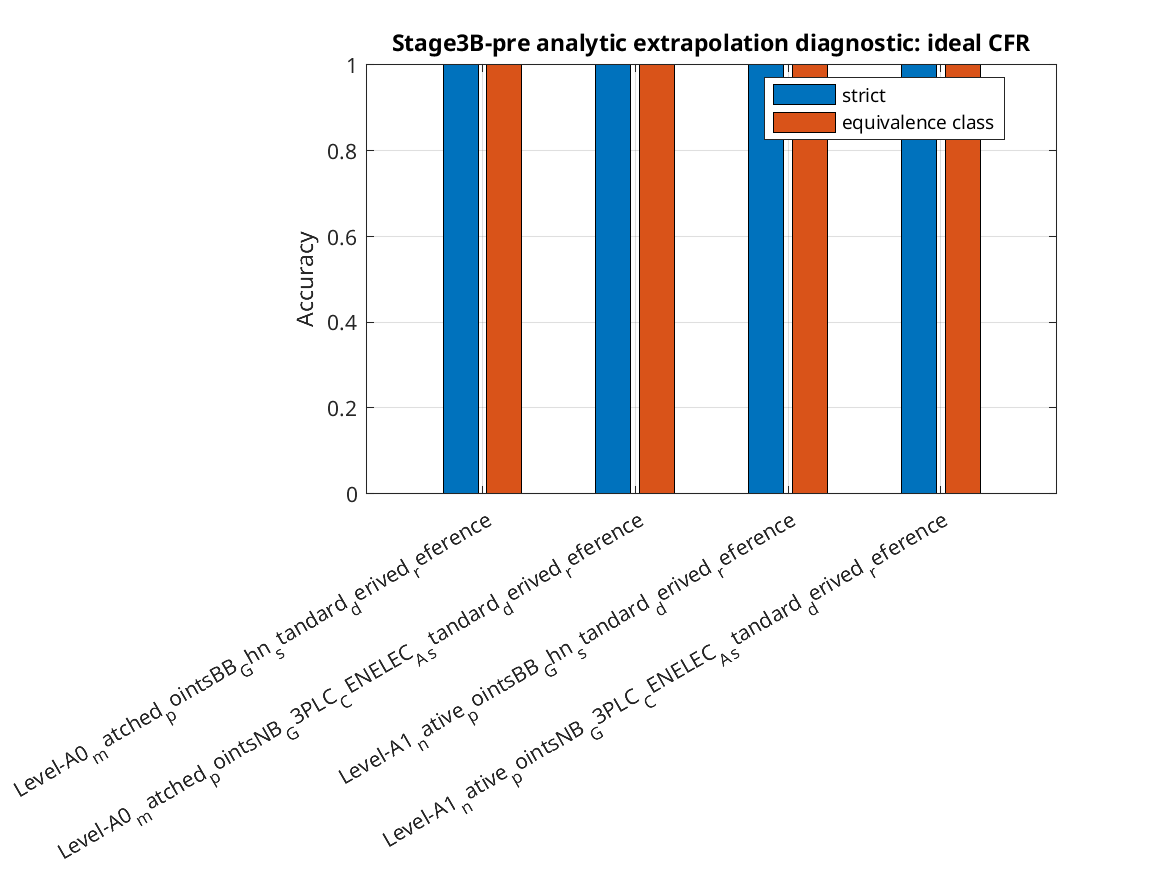
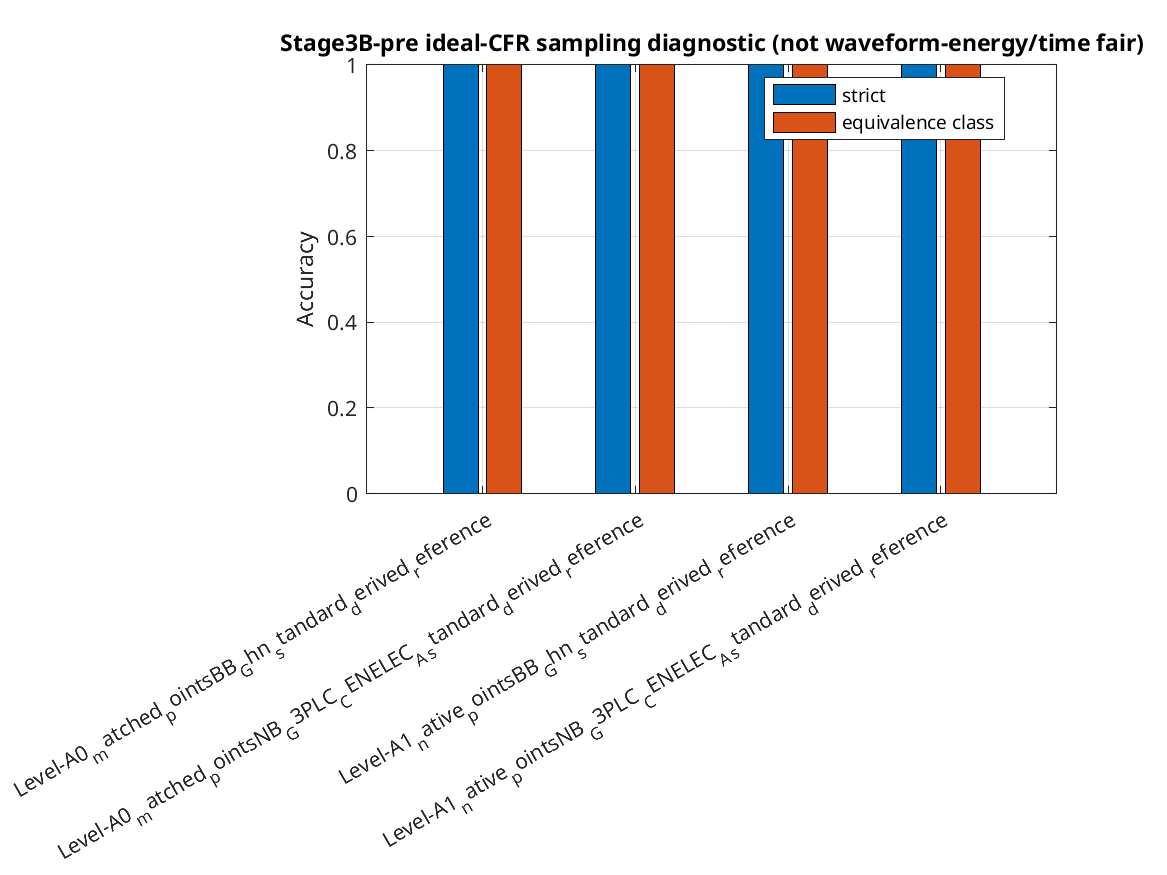
fix: clarify Stage 3B-pre diagnostic evidence

Changed region(s): [[0.2468, 0.0309, 0.9871, 0.0617]]

diff --git a/experiments/exp_stage3b_pre_level_a.m b/experiments/exp_stage3b_pre_level_a.m
@@ -6,13 +6,13 @@ function result = exp_stage3b_pre_level_a(root_dir)
     rows=struct([]);r=0;
     for li=1:numel(cfg.levels)
         for bi={'BB','NB'}
-            band=stage3b_pre_band_selector(bi{1},cfg.levels{li});fair=stage3b_pre_fair_sampling(band,cfg.total_injected_energy,cfg.target_observation_time_s);
+            band=stage3b_pre_band_selector(bi{1},cfg.levels{li});placeholder=stage3b_pre_fair_sampling(band);
             for ci=1:numel(cfg.theta_cases)
                 theta=theta_case(cfg.theta_cases{ci});
                 for si=1:numel(cfg.snr_db)
                     out=stage3b_pre_level_a_match(band.frequency_hz,candidates,base,theta,cfg.snr_db(si), ...
                         cfg.random_seed+10000*li+1000*(bi{1}(1)=='N')+100*ci+si,cfg);
-                    r=r+1; candidate_row=summarize(band,fair,cfg,theta,cfg.snr_db(si),out);
+                    r=r+1; candidate_row=summarize(band,placeholder,cfg,theta,cfg.snr_db(si),out);
                     if r==1
                         rows=candidate_row;
                     else
@@ -36,22 +36,22 @@ function theta=theta_case(name)
     if strcmp(name,'length_plus_2pct'),theta.main_length_scale=1.02;theta.branch_length_scale=1.02;end
     if strcmp(name,'load_minus_10pct'),theta.branch_load_scale=.9;end
 end
-function row=summarize(band,fair,cfg,theta,snr,out)
+function row=summarize(band,placeholder,cfg,theta,snr,out)
     m=out.metrics;labels=out.classes.class_labels;members=out.classes.class_members;
     pair='';for k=1:numel(members),ids=labels{members{k}(1)};if contains(ids,'T3')&&contains(ids,'T5'),pair=ids;end,end
     nearest_summary=strjoin(unique(out.nearest_competitor,'stable'),';');
-    row=struct('analysis_kind',cfg.analysis_kind,'level',band.level,'band',band.name, ...
+    row=struct('analysis_kind',cfg.analysis_kind,'measurement_model','ideal_CFR_plus_receiver_sample_noise', ...
+        'reference_library','nominal_library','level',band.level,'band',band.name, ...
         'rlgc_status',band.rlgc_status,'point_count',band.active_point_count, ...
         'frequency_low_hz',band.frequency_hz(1),'frequency_high_hz',band.frequency_hz(end), ...
         'snr_db',snr,'main_length_scale',theta.main_length_scale,'branch_load_scale',theta.branch_load_scale, ...
-        'total_injected_energy',fair.total_injected_energy,'repetitions',fair.repetitions, ...
-        'observation_time_s',fair.achieved_observation_time_s,'strict_accuracy',m.strict_topology_accuracy, ...
+        'future_waveform_fairness_placeholder',placeholder.status,'strict_accuracy',m.strict_topology_accuracy, ...
         'equivalence_class_accuracy',m.equivalence_class_accuracy,'ambiguity_rate',m.ambiguity_rate, ...
         'false_unique_rate',m.false_unique_rate,'class_intra_distance',m.mean_class_intra_distance, ...
         'nearest_class_inter_distance',m.mean_nearest_class_inter_distance, ...
         'intra_inter_ratio',m.class_intra_inter_ratio,'nearest_competing_topology',nearest_summary, ...
         't3_t5_equivalence_class',pair, ...
-        'cfr_sampling_nmse',out.cfr_sampling_nmse);
+        'cfr_sampling_nmse_ideal_input',out.cfr_sampling_nmse_ideal_input);
 end
 function A=applicability_table()
     A=struct('item',{'RLGC frequency applicability';'load model';'source_receiver_impedance';'frequency_grid';'noise definition';'observation port'}, ...
@@ -64,6 +64,6 @@ end
 function ensure_dirs(cfg),if ~exist(cfg.results_data,'dir'),mkdir(cfg.results_data);end;if ~exist(cfg.results_figures,'dir'),mkdir(cfg.results_figures);end;if ~exist(cfg.results_logs,'dir'),mkdir(cfg.results_logs);end,end
 function make_figure(T,dir_out)
     z=T(isinf(T.snr_db)&T.main_length_scale==1&T.branch_load_scale==1,:);figure('Visible','off');
-    bar(categorical(strcat(string(z.level),' ',string(z.band))),[z.strict_accuracy,z.equivalence_class_accuracy]);grid on;ylim([0 1]);ylabel('Accuracy');legend('strict','equivalence class','Location','best');title('Stage3B-pre analytic extrapolation diagnostic: ideal CFR');
+    bar(categorical(strcat(string(z.level),' ',string(z.band))),[z.strict_accuracy,z.equivalence_class_accuracy]);grid on;ylim([0 1]);ylabel('Accuracy');legend('strict','equivalence class','Location','best');title('Stage3B-pre ideal-CFR sampling diagnostic (not waveform-energy/time fair)');
     print(gcf,fullfile(dir_out,'stage3b_pre_accuracy.png'),'-dpng','-r150');close(gcf);
 end

diff --git a/src/stage3b_pre_fair_sampling.m b/src/stage3b_pre_fair_sampling.m
@@ -1,14 +1,10 @@
-function fairness = stage3b_pre_fair_sampling(band, total_energy, target_time_s)
-%STAGE3B_PRE_FAIR_SAMPLING Declare, rather than optimize, Level-A fairness.
-    if nargin<2||isempty(total_energy),total_energy=1;end
-    if nargin<3||isempty(target_time_s),target_time_s=3.2e-3;end
-    payload_s=band.nfft/band.fs_hz;
-    repetitions=max(1,round(target_time_s/payload_s));
-    fairness=struct('total_injected_energy',total_energy, ...
-        'energy_per_frequency_sample_per_repetition',total_energy/(band.active_point_count*repetitions), ...
-        'payload_duration_s',payload_s,'target_observation_time_s',target_time_s, ...
-        'repetitions',repetitions,'achieved_observation_time_s',repetitions*payload_s, ...
-        'noise_reference','post-line CFR sample; equal receiver-domain SNR definition', ...
-        'note',['Ideal known CFR samples are used. Energy/time fields define the ' ...
-        'fairness contract but do not instantiate a PHY frame, pilot or PSD.']);
+function placeholder = stage3b_pre_fair_sampling(band)
+%STAGE3B_PRE_FAIR_SAMPLING Describe deferred waveform-level fairness only.
+%   This function deliberately does not allocate energy, create repetitions,
+%   alter noise variance, average observations, or affect matching.
+    placeholder=struct('status','future_waveform_fairness_placeholder', ...
+        'band_name',band.name,'payload_duration_s',band.nfft/band.fs_hz, ...
+        'not_used_in_current_observation_statistics',true, ...
+        'note',['Current Stage-3B-pre uses one ideal known CFR vector plus optional ' ...
+        'receiver-domain sample noise. Energy/time fairness is not implemented.']);
 end

diff --git a/tests/test_stage3b_pre.m b/tests/test_stage3b_pre.m
@@ -7,7 +7,8 @@ function test_stage3b_pre()
     assert(bb0.active_point_count==36&&nb0.active_point_count==36&&bb1.active_point_count>nb1.active_point_count,'Level-A0/A1 point rules failed.');
     assert(bb1.nfft==4096&&bb1.fs_hz==100e6&&nb1.nfft==256&&nb1.fs_hz==.4e6&&nb1.ncp==30&&nb1.overlap_samples==8,'Standard-derived fields failed.');
     assert(isequal(before.ofdm,after.ofdm)&&strcmp(cfg.analysis_kind,'analytic_extrapolation_diagnostic'),'Existing configuration was changed.');
-    fair=stage3b_pre_fair_sampling(bb0,1,3.2e-3);assert(fair.total_injected_energy==1&&fair.repetitions>0,'Fairness metadata failed.');
+    placeholder=stage3b_pre_fair_sampling(bb0);assert(placeholder.not_used_in_current_observation_statistics&& ...
+        strcmp(placeholder.status,'future_waveform_fairness_placeholder'),'Deferred fairness metadata failed.');
     candidates=topology_candidates(before);out=stage3b_pre_level_a_match(nb0.frequency_hz,candidates([2,3,4,5]),before,struct(),Inf,1,cfg);
     assert(any(out.classes.class_sizes>1)&&all(isfinite(out.classes.pairwise_complex_distance(:))),'Equivalence diagnostic failed.');
     fprintf('  PASS Stage3B-pre isolated standard-derived diagnostic boundaries\n');

diff --git a/src/stage3b_pre_level_a_match.m b/src/stage3b_pre_level_a_match.m
@@ -1,5 +1,7 @@
 function out = stage3b_pre_level_a_match(f_hz, candidates, base_cfg, theta, snr_db, seed, cfg)
-%STAGE3B_PRE_LEVEL_A_MATCH Isolated ideal-CFR topology matching diagnostic.
+%STAGE3B_PRE_LEVEL_A_MATCH Ideal-CFR plus receiver-sample-noise diagnostic.
+%   One CFR vector is observed per trial. No waveform energy, symbol time,
+%   repetitions, averaging, coupler loss or receiver noise figure is modeled.
     refs=topology_reference_cfr(f_hz,candidates,base_cfg);
     views=cell(1,numel(refs));
     for v=1:numel(refs), views{v}={refs(v).reference_H}; end
@@ -21,7 +23,7 @@ function out = stage3b_pre_level_a_match(f_hz, candidates, base_cfg, theta, snr_
     metrics=topology_equivalence_evaluation(truth,matches,candidates,classes);
     out=struct('metrics',metrics,'classes',classes,'truth',truth,'matches',{matches}, ...
         'class_intra_distance',intra,'nearest_class_inter_distance',inter, ...
-        'nearest_competitor',{nearest},'cfr_sampling_nmse',0, ...
+        'nearest_competitor',{nearest},'cfr_sampling_nmse_ideal_input',0, ...
         'noise_is_receiver_domain',isfinite(snr_db));
 end
 

diff --git a/src/stage3b_pre_config.m b/src/stage3b_pre_config.m
@@ -8,10 +8,11 @@ function cfg = stage3b_pre_config(root_dir)
         'candidate_indices',[2,3,4,5],'snr_db',[Inf,20], ...
         'trials_per_truth',20,'random_seed',20260902, ...
         'theta_cases',{{'nominal','length_plus_2pct','load_minus_10pct'}}, ...
-        'total_injected_energy',1,'target_observation_time_s',3.2e-3, ...
         'levels',{{'Level-A0_matched_points','Level-A1_native_points'}}, ...
         'noise_definition',['Receiver-domain additive complex CFR-sample noise; ' ...
         'SNR=mean(abs(H_true).^2)/mean(abs(N).^2), evaluated after the line model.'], ...
+        'future_waveform_fairness_placeholder',['Energy, time and repetition settings are ' ...
+        'reserved for a future waveform-level experiment and do not enter current observation statistics.'], ...
         'results_data',fullfile(root_dir,'results','data'), ...
         'results_figures',fullfile(root_dir,'results','figures'), ...
         'results_logs',fullfile(root_dir,'results','logs'));

diff --git a/run_stage3b_pre.m b/run_stage3b_pre.m
@@ -1,5 +1,9 @@
 function result = run_stage3b_pre()
-%RUN_STAGE3B_PRE Run only isolated Stage-3B-pre test and diagnostic.
+%RUN_STAGE3B_PRE Run isolated Stage-3B-pre tests and ideal-CFR diagnostic.
     root=fileparts(mfilename('fullpath'));addpath(fullfile(root,'src'));addpath(fullfile(root,'config'));addpath(fullfile(root,'experiments'));addpath(fullfile(root,'tests'));
-    test_stage3b_pre();result=exp_stage3b_pre_level_a(root);
+    started=datetime('now','Format','yyyy-MM-dd HH:mm:ss Z');
+    fprintf('Stage3B-pre start: %s\nMATLAB version: %s\nWorking directory: %s\n',char(started),version,root);
+    fprintf('Entry: run_tests; run_stage3b_pre (Stage3B-pre uses ideal CFR plus receiver-domain sample noise).\n');
+    run_tests;result=exp_stage3b_pre_level_a(root);
+    fprintf('Stage3B-pre completed successfully at %s.\n',char(datetime('now','Format','yyyy-MM-dd HH:mm:ss Z')));
 end

diff --git a/tests/run_tests.m b/tests/run_tests.m
@@ -198,6 +198,7 @@ function run_tests()
     test_stage3a_1();
     test_stage3a_2();
     test_stage3_band_configs();
+    test_stage3b_pre();
 end
 
 function err = determinant_error(T)

diff --git a/report/stage3b_pre_level_a.md b/report/stage3b_pre_level_a.md
@@ -1,89 +1,91 @@
-# Stage 3B-pre：标准派生 Level-A 宽窄带可辨识性诊断
+# Stage 3B-pre：标准派生理想 CFR 带宽可辨识性诊断
 
 ## 1. 阶段与范围
 
-当前阶段是 **Stage 3A.2 收尾 + Stage 3B-pre**。本轮执行的是“标准派生、模型限定的 Level-A 宽窄带公平可辨识性实验准备与执行”，不是正式 Stage 3B 的波形、导频、子载波或功率优化，也不是真实 PLC 收发机或现场拓扑验证。
+当前阶段是 **Stage 3A.2 收尾 + Stage 3B-pre（带宽可辨识性前置诊断）**。正式 Stage 3B 的波形、导频、功率或子载波优化尚未启动。
 
-已保留的历史阶段为 Stage 1.5、2、2.1、2.2、2.3、3A、3A.1、3A.2 和 NB/BB 双频段配置边界测试。配置边界测试通过只说明接口与隔离规则正确，不等于完成 NB/BB 数值识别。
+本实验是基于当前传输线正向模型、标准参数可追溯的**理想 CFR 解析外推诊断**：候选库使用 nominal 参数，测试样本施加参数扰动；有限 SNR 条件在接收端 CFR 样点加入等效复高斯噪声。它不是实际 PLC 收发机比较、实测验证、完整 NB PHY，也不证明拓扑已被唯一识别。
 
-本次新增结果统一标记为 `analytic_extrapolation_diagnostic`。原因是当前 RLGC/线路模型的项目证据窗口是 2--30 MHz；CENELEC-A 的低频计算可以由解析公式数值求值，但缺少在该频段的物理校准证据。因此本报告中的 NB 数值**不构成物理 NB/BB 比较**。
+已保留的历史阶段为 Stage 1.5、2、2.1、2.2、2.3、3A、3A.1、3A.2 和 NB/BB 双频段配置边界测试。后者只验证配置接口与隔离边界，不能替代 NB/BB 数值识别实验。
 
-## 2. 配置与证据等级
+所有本轮 NB 行均标记为 `analytic_extrapolation_diagnostic`：现有 RLGC/线路证据窗口为 2--30 MHz，CENELEC-A 的低频响应只是解析函数的数值外推，缺少低频实测或独立参数标定。因此 NB 结果**不构成物理 NB/BB 比较**。
 
-| 项目 | BB 标准派生参考 | NB 标准派生参考 | 证据等级/边界 |
+## 2. 标准派生配置与证据等级
+
+| 项目 | BB 标准派生参考 | NB 标准派生参考 | 证据等级与边界 |
 |---|---|---|---|
-| 名称 | `BB_Ghn_standard_derived_reference` | `NB_G3PLC_CENELEC_A_standard_derived_reference` | 两者均为模型限定参考，非硬件复现 |
+| 名称 | `BB_Ghn_standard_derived_reference` | `NB_G3PLC_CENELEC_A_standard_derived_reference` | 模型限定参考，不是硬件复现 |
 | 来源 | ITU-T G.9960/G.9964 | ITU-T G.9903 | 标准派生字段；硬件前端未冻结 |
 | NFFT / Fs | 4096 / 100 MHz | 256 / 0.4 MHz | 标准派生 |
 | 子载波间隔 | 24.4140625 kHz | 1.5625 kHz | 标准派生 |
-| 观测频带 | 2--30 MHz 研究窗口 | 35.9375--90.625 kHz、36 个 CENELEC-A 派生 tone | BB 不是完整 G.hn PHY；NB 不是实际项目硬件 |
-| CP/重叠 | 本轮不实例化 payload/前导/PROBE | 记录 `NCP=30`、overlap=8，但本轮不实例化帧 | 标准字段不等于本轮完成完整 PHY |
+| 观测范围 | 2--30 MHz 研究窗口 | 35.9375--90.625 kHz、36 个 CENELEC-A 派生 tone | BB 不是完整 G.hn PHY；NB 不是已确认项目硬件 |
+| CP/重叠 | 本轮不生成 payload、前导或 PROBE | 仅记录 `NCP=30`、overlap=8，不生成帧 | 标准字段不等于完整 PHY 实现 |
 | 端口 | 相同 50 ohm 数学 SISO 正向端口 | 同左 | 项目假设，未标定 |
-| RLGC | 现有项目 2--30 MHz 模型窗口 | 同一解析函数在低频求值 | NB 为频率外推诊断 |
+| RLGC | 既有项目 2--30 MHz 模型窗口 | 同一解析函数向低频求值 | NB 为频率外推诊断 |
 
-标准参数与硬件参数必须分开：本轮没有填入实际 active carrier/notch、GI、PSD、发射功率、耦合器、灵敏度、真实端接、CFO 或同步时间原点。
+本轮未填入实际 active carrier/notch、GI、PSD、发射功率、耦合器、灵敏度、真实端接、CFO 或同步时间原点；不得把标准字段写成某一商用 modem 的实际参数。
 
 ## 3. 模型适用性门槛
 
 | 项目 | BB | NB | 证据等级 | 能否进入正式物理 Level-A |
 |---|---|---|---|---|
-| RLGC 频率适用范围 | 2--30 MHz 既有项目模型窗口 | 低于现有证据窗口，仅解析外推 | 代码/历史模型边界 | 否：NB 未校准 |
-| 负载模型 | 标量/复数负载接口 | 同一数学接口，无现场低频阻抗分布 | 代码接口 | 否 |
+| RLGC 频率适用范围 | 2--30 MHz 既有模型窗口 | 低于证据窗口，仅解析外推 | 历史模型边界 | 否：NB 未校准 |
+| 负载模型 | 标量/复数负载数学接口 | 同一接口，无现场低频阻抗分布 | 代码接口 | 否 |
 | 源/接收阻抗 | 50 ohm 数学假设 | 同一假设，无硬件校准 | 项目假设 | 否 |
 | 频率网格 | G.hn 派生索引 | G3 CENELEC-A 派生 36 tone | 标准派生 | 仅网格可用 |
-| 噪声定义 | 接收端 CFR 样本域受控复高斯扰动 | 同一定义 | 本轮仿真定义 | 非现场噪声 |
+| 噪声定义 | 接收端 CFR 样点域等效复高斯扰动 | 同一定义 | 本轮仿真定义 | 非现场噪声 |
 | 观测端口 | SISO forward 完整网络电压 CFR | 同左 | 模型观测定义 | 真实端口待确认 |
 
-结论：本轮不能称为“模型内物理 NB/BB Level-A 比较”；允许且已经执行的是带有明确标签的**解析外推诊断**。
+结论：只能执行带有明确标签的解析外推诊断，不能称作物理、硬件或现场的 NB/BB Level-A 比较。
 
-## 4. Level-A0/A1 公平性定义
+## 4. Level-A0/A1 的实际采样定义
 
-两个层级均固定候选集 T2/T3/T4/T5、真实测试拓扑、三组扰动（名义、全线/支路长度 `+2%`、支路负载 `-10%`）、SISO 正向端口、50 ohm 源/接收端假设、随机种子构造、复数 CFR 匹配器及评价指标。
+两个层级均固定候选集 T2/T3/T4/T5、测试拓扑、三组参数条件（名义、全线/支路长度 `+2%`、支路负载 `-10%`）、SISO 正向端口、50 ohm 数学端接、随机种子构造、复数 CFR 匹配器和指标。
 
-`Level-A0_matched_points`：BB 与 NB 都取 36 个有效 CFR 点。BB 从 2--30 MHz 的标准派生频率网格均匀抽取 36 点；NB 使用其 36 个 CENELEC-A 派生 tone。因此它隔离了“点数”而非“频带位置”。
+- `Level-A0_matched_points`：BB 与 NB 各取 36 个 CFR 点；BB 在 2--30 MHz 标准派生网格均匀取样，NB 使用 36 个 CENELEC-A tone。这是**匹配 CFR 频点数 + 共同接收端 CFR 样点 SNR**的理想诊断，不隔离频带位置。
+- `Level-A1_native_points`：BB 使用 1147 个研究窗口内网格点，NB 仍为 36 个。故 A1 相对 A0 的主要点数/采样密度变化只发生在 BB 侧；它显示原生频率资源差异，不是完全公平的单因素因果对照。
 
-`Level-A1_native_points`：BB 使用 1147 个 2--30 MHz 标准派生网格点，NB 使用其原生 36 点。这一层展示原生频率资源差异，不是完全单因素因果对照。
-
-总注入能量定义为每次观测 `E_total=1`；每个“点×重复”的名义能量为 `1/(N_point N_rep)`。为接近 3.2 ms 的统一观测时间，BB 使用 78 个 `4096/100 MHz=40.96 us` payload 时长（3.19488 ms），NB 使用 5 个 `256/0.4 MHz=640 us` payload 时长（3.2 ms）。这些字段是公平性元数据；因为本轮使用理想已知 CFR 探测点，它们没有被误写成真实 payload、PSD 或导频实现。
-
-有限 SNR 时，噪声加在**线路响应后的 CFR 样本域**：
+有限 SNR 时，一次测试 CFR 向量的每个样点只施加一次后置等效复高斯扰动：
 
 $$
-\mathrm{SNR}=\frac{\operatorname{mean}|H_{\rm true}[k]|^2}
+\mathrm{SNR}_{\rm CFR}=
+\frac{\operatorname{mean}|H_{\rm true}[k]|^2}
 {\operatorname{mean}|N[k]|^2}.
 $$
 
-这只是为 BB/NB 采用相同的接收端样本误差定义；不代表注入端 SNR、标准 PSD、接收机噪声系数或现场脉冲噪声。
+该 SNR 定义位于接收端 CFR 样点，不是注入端 SNR、标准 PSD、接收机噪声系数或现场脉冲噪声。`cfr_sampling_nmse_ideal_input=0` 只表示无噪声条件直接抽取理想已知 CFR，**不是**信道估计器 NMSE。
 
-## 5. MATLAB 运行与新增资产
+代码保留的 `future_waveform_fairness_placeholder` 仅为未来物理波形级设计保留元数据接口。当前不分配总发送能量、不生成 OFDM 符号、不使用 `repetitions` 平均、不使观测时间影响噪声方差、观测或匹配；因此**等总注入能量、等观测时间及重复平均增益均未实现，也不能用于解释本轮结果**。
 
-- MATLAB：R2024a（由启动日志及既有环境确认）。
-- 最终入口：`run_stage3b_pre`。
-- 命令：`env MATLAB_PREFDIR=/tmp/matlab-pref-stage3b-pre5 LD_LIBRARY_PATH=/home/chidan/.local/share/matlab-r2024a/compat/lib QT_QPA_PLATFORM=xcb /home/chidan/Matlab/bin/matlab -nodisplay -nosplash -softwareopengl -batch "... run_stage3b_pre ..."`。
-- 最终退出状态：`0`。
-- 单元测试：`test_stage3b_pre` 通过。
-- 最终成功日志：[stage3b_pre_final_run.log](../results/logs/stage3b_pre_final_run.log)，只记录通过的重跑；原始调试日志保留在本地但不作为最终运行证据。历史阶段日志未修改。
-- 数据：[stage3b_pre_summary.csv](../results/data/stage3b_pre_summary.csv)、[stage3b_pre_applicability.csv](../results/data/stage3b_pre_applicability.csv)、`stage3b_pre_results.mat`；图：[stage3b_pre_accuracy.png](../results/figures/stage3b_pre_accuracy.png)。
+## 5. 运行、测试与结果可追溯性
+
+- MATLAB：`24.1.0.2537033 (R2024a)`。
+- 工作目录：仓库根目录 `matlab_plc_cfr_publish`。
+- 最终入口：`run_stage3b_pre`，该入口先运行 `run_tests`，随后运行 Stage 3B-pre 实验。
+- 完整命令、起止时间、版本、测试入口和退出状态见：[stage3b_pre_final_run.log](../results/logs/stage3b_pre_final_run.log)。本次退出状态为 `0`；日志中的 `ApplicationService` 是启动环境提示，未导致测试失败。
+- `test_stage3b_pre` 已纳入 [tests/run_tests.m](../tests/run_tests.m)，并在本次总回归中通过。
+- 发布的数据为：[stage3b_pre_summary.csv](../results/data/stage3b_pre_summary.csv) 与 [stage3b_pre_applicability.csv](../results/data/stage3b_pre_applicability.csv)；图为 [stage3b_pre_accuracy.png](../results/figures/stage3b_pre_accuracy.png)。
+- `results/data/stage3b_pre_results.mat` 在每次本地运行时生成，但受 `.gitignore` 的 `results/data/*.mat` 规则忽略，**未纳入版本库、不是仓库内可下载结果**。可使用日志中完整命令重新生成。
 
 ## 6. 关键结果与等价类审计
 
-所有数值见 summary CSV；以下仅列出最能说明边界的条件。
-
-| 条件 | strict accuracy | equivalence-class accuracy | ambiguity | false-unique | 类内/最近类间比 | 解释 |
+| 条件 | strict accuracy | equivalence-class accuracy | ambiguity | false-unique | 类内/最近类间比 | 边界解释 |
 |---|---:|---:|---:|---:|---:|---|
-| A0，BB，名义，理想 | 1.000 | 1.000 | 0.500 | 0 | 0 | T3/T5 仍是 `{T3,T5}` 等价类；strict 不能解释为唯一识别 |
-| A0，NB 外推，名义，理想 | 1.000 | 1.000 | 0.500 | 0 | 0 | 相同的 T3/T5 等价状态；且仅为解析外推 |
-| A0，BB，长度 +2%，理想 | 0.750 | 1.000 | 0.500 | 0 | 0.888 | 参数扰动已接近最近类间间隔 |
-| A0，NB 外推，长度 +2%，理想 | 0.500 | 0.500 | 0 | 0.500 | 0.238 | 外推模型中参数变化可造成 false-unique，不能外推为物理 NB 结论 |
-| A1，BB 原生点，名义，20 dB | 0.750 | 1.000 | 0.500 | 0 | 0.252 | 更多 BB 点未消除对称 SISO 等价 |
-| A1，NB 外推，名义，20 dB | 0.488 | 0.613 | 0.338 | 0.275 | 0.908 | 外推低频响应在此受控样本噪声下类间/类内间隔很小 |
+| A0，BB，名义，理想 | 1.000 | 1.000 | 0.500 | 0 | 0 | T3/T5 仍为 `{T3,T5}`；strict 不能解释为唯一识别 |
+| A0，NB 外推，名义，理想 | 1.000 | 1.000 | 0.500 | 0 | 0 | 同一等价状态，仅为解析外推 |
+| A0，BB，长度 +2%，理想 | 0.750 | 1.000 | 0.500 | 0 | 0.888 | 参数失配接近最近类间间隔 |
+| A0，NB 外推，长度 +2%，理想 | 0.500 | 0.500 | 0 | 0.500 | 外推模型可出现 false-unique，不能外推为物理 NB 结论 |
+| A1，BB 原生点，名义，20 dB | 0.750 | 1.000 | 0.500 | 0 | 0.252 | BB 点数增加没有打破对称 SISO 等价 |
+| A1，NB 外推，名义，20 dB | 0.488 | 0.613 | 0.338 | 0.275 | 0.908 | 仅为受控接收端样点噪声下的外推诊断 |
 
-每行还保存了最近竞争拓扑字段；例如 A0 BB 名义理想行的最近非同类竞争为 T4（T3/T5 彼此属于同一等价类）。完整复数 CFR 的 T3/T5 等价类在所有本轮配置行中仍为 `{T3,T5}`。
+候选参考库为 nominal library，而测试样本包含参数扰动，故表中数值是“名义库匹配受扰测试”的结果，不能笼统写成真实噪声性能比较。每一行保留最近竞争拓扑字段；完整复数 CFR 的 T3/T5 等价类在所有行中仍为 `{T3,T5}`。
 
-因此本轮最重要的模型内结论不是“宽带必然更好”，而是：在相同对称 SISO 端口下，增加带宽或有效 CFR 点数不能保证消除严格结构观测等价。NB 外推行中出现的性能差异也不能被解释为真实物理频段优势或劣势。
+本轮模型内结论不是“宽带必然更好”：相同对称 SISO 端口下，增加带宽或 CFR 点数不能保证消除结构观测等价；NB 行的任何差异也不能解释为真实频段优劣。
 
-## 7. 结论边界与 Stage 3B 判断
+## 7. 正式 Stage 3B 判断
 
-本轮只在冻结模型假设下比较宽窄带频率资源；不等于真实 PLC 收发机验证，不等于拓扑已被现场唯一识别，也不自动构成导频、功率或子载波优化依据。
+**正式 Stage 3B 仍不启动。** 仍需确认或标定真实测量节点与方向、端接/耦合器/TX-RX switch 及参考面、NB 可运行 PHY 与低频 RLGC/负载、BB active carrier/GI 的明确来源、同步时间原点，以及能实际作用于观测统计的能量/时间/SNR 公平口径。
 
-**Stage 3B 仍被阻塞。** 至少还需冻结：真实 NB 硬件/PHY 与低频 RLGC/端接校准、BB active-carrier/GI 的实际来源、测量节点与方向、耦合器/参考面、同步时间原点及公平能量/时间/SNR 口径。确认这些条件后，第一项工作应是重新运行有物理依据的 Level-A0/A1，而不是直接优化任何 OFDM 资源。
+确认上述条件后，且独立测试表明剩余瓶颈主要来自频带、导频或资源配置时，第一项工作应是重建具有物理依据的 Level-A0/A1 观测模型；不是直接优化导频、功率或子载波。
+
+通信标准参数和理想 CFR 可辨识性诊断，只提高收发机模型与实验设置的可追溯性；它们不等于真实 PLC 拓扑识别性能已经被验证。
